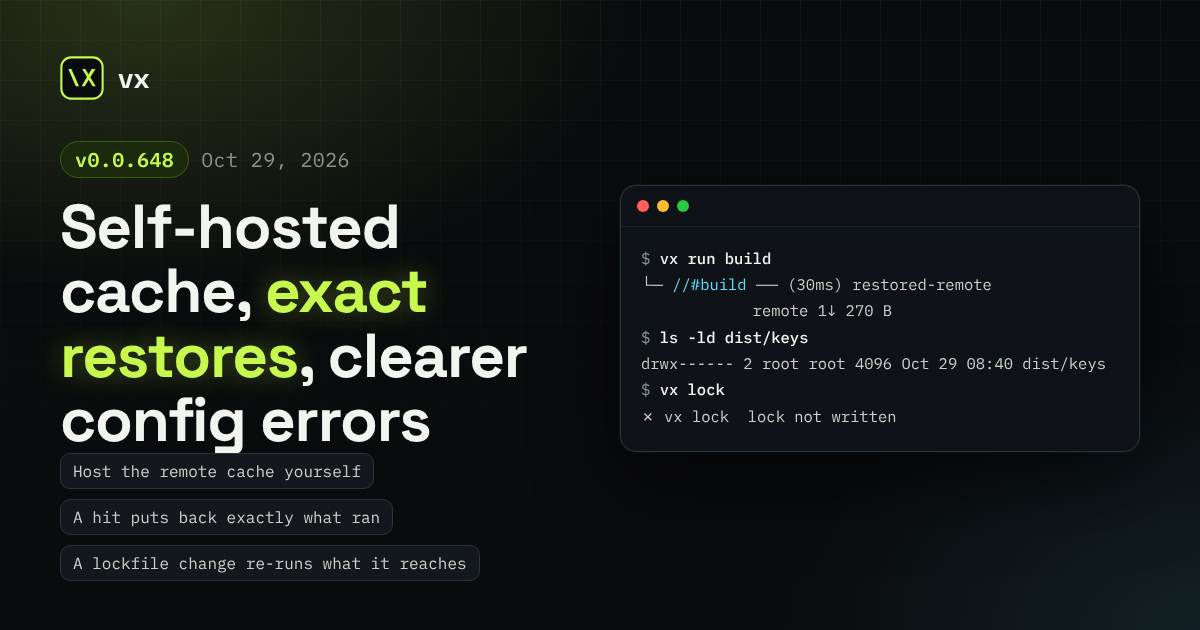
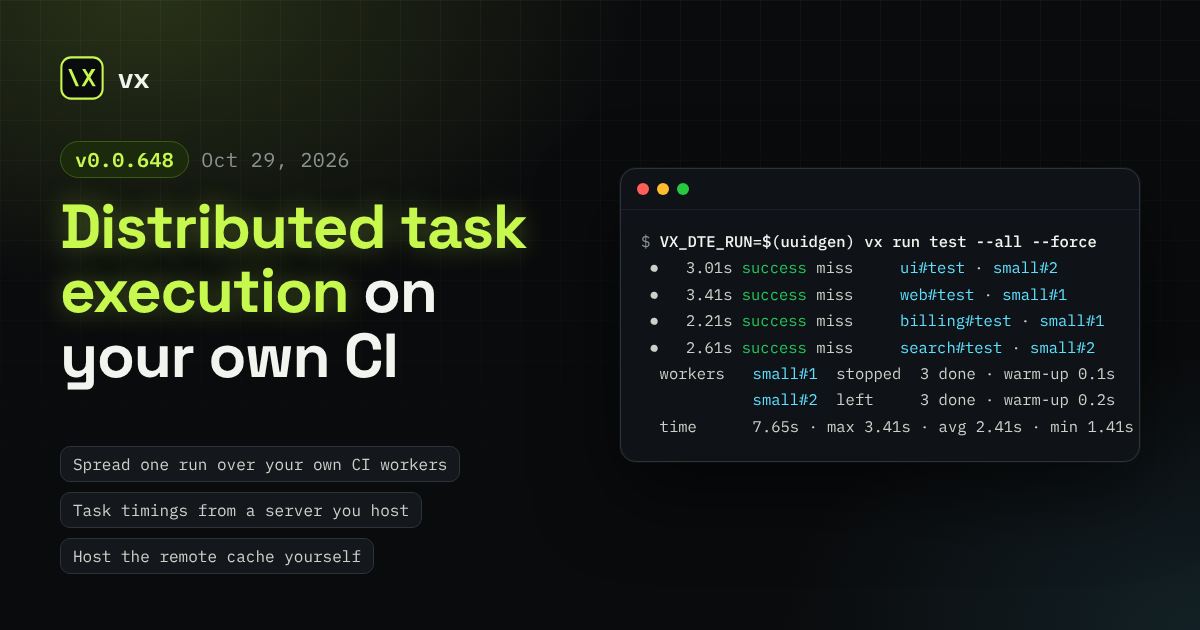
docs(vx-docs): lead the v0.0.648 post with distributed task execution
DTE is the release's headline, yet the post did not mention it or the
history server. It now opens with how a run spreads over your own CI
workers, with real local() and vx dte init output, then task timings
from a history server with real vx last --live and --sql output. The
cache, restore, lockfile and config sections are tightened, and the
history renames v0.0.646 users meet join the breaking list.

Claude-Session: https://claude.ai/code/session_01W6xuYaCkX1jpT9FftMDo4z

diff --git a/private/vx-docs/src/content/docs/releases/vx-0-0-648.md b/private/vx-docs/src/content/docs/releases/vx-0-0-648.md
@@ -1,5 +1,5 @@
 ---
-title: 'Self-hosted cache, exact restores, clearer config errors'
+title: 'Distributed task execution, a cache you host, exact restores'
 date: 2026-10-29T12:00:00Z
 authors:
   - vzn
@@ -7,18 +7,23 @@ tags:
   - release
 cover:
   image: ../../../assets/blog/vx-0-0-648.png
-  alt: 'vx 0.0.648: Self-hosted cache, exact restores, clearer config errors'
-excerpt: 'Host the remote cache in one bucket of your own, get back exactly what a task wrote, re-run what a lockfile change reaches, and see a config mistake refused with its fix.'
+  alt: 'vx 0.0.648: Distributed task execution, a cache you host, exact restores'
+excerpt: 'Spread one CI run over workers your own CI starts, through a relay that stores nothing. Plus task timings and a remote cache on servers you host, and exact restores.'
 ---
 
-Host the remote cache yourself, in one bucket with no database. A hit
-puts back exactly what the task wrote, a lockfile change re-runs what
-it reaches, and a config mistake is refused with its fix.
+Distributed task execution (DTE) spreads one `vx run` over workers your
+own CI starts. Below, six tests ran on two workers, and the footer
+shows how close the run came to ideal.
+
+There is no vendor cloud. The relay between the run and its workers is
+a server you host, and it stores nothing.
 
 This release is breaking. Read the [breaking changes](#breaking-changes) first.
 
 **In this release**
 
+- [Spread one run over your own CI workers](#spread-one-run-over-your-own-ci-workers)
+- [Task timings from a server you host](#task-timings-from-a-server-you-host)
 - [Host the remote cache yourself](#host-the-remote-cache-yourself)
 - [A hit puts back exactly what ran](#a-hit-puts-back-exactly-what-ran)
 - [A lockfile change re-runs what it reaches](#a-lockfile-change-re-runs-what-it-reaches)
@@ -26,6 +31,184 @@ This release is breaking. Read the [breaking changes](#breaking-changes) first.
 - [Other noteworthy changes](#other-noteworthy-changes)
 - [How to update](#how-to-update)
 - [Breaking changes](#breaking-changes)
+
+## Spread one run over your own CI workers
+
+```mermaid
+flowchart LR
+  O["your CI job: vx run"] -- "start, cancel" --> API[CI API]
+  API --> W1["worker small#1"]
+  API --> W2["worker small#2"]
+  O <-- "orders, status" --> R(("relay: stores nothing"))
+  R <--> W1
+  R <--> W2
+  W1 -- "outputs by key" --> C[(remote cache)]
+  W2 --> C
+  C -- "restore" --> O
+```
+
+Your CI job's `vx run` is the orchestrator. It finds the tasks the cache
+cannot answer, starts workers through your CI's API, and hands them out.
+
+Workers save outputs to your remote cache, and the run restores them as
+if the tasks ran there. Each side signs in with its CI job's OIDC
+token, so no secret is stored.
+
+```ts
+// .vx/workspace.ts
+import { defineWorkspace } from '@vzn/vx/config'
+import { dte, github } from '@vzn/vx-dte'
+
+export default defineWorkspace({
+  plugins: [
+    dte({
+      relay: 'https://relay.example.com',
+      workers: { small: { max: 8, cpu: 4, memory: '16GB' } },
+      adapter: github(),
+    }),
+  ],
+})
+```
+
+`workers` names the sizes the run may start: here up to 8 workers with
+4 cores and 16 GB each. `gitlab()` starts workers as GitLab pipelines.
+
+```sh frame="terminal"
+$ vx dte init
+vx dte init: wrote .github/workflows/ci.yml
+vx dte init: wrote .github/workflows/vx-worker.yml
+
+Next:
+  1. Let these workflows use the relay at https://relay.example.com: set its ALLOW.
+     Its ALLOW (a plain var, no secret): https://token.actions.githubusercontent.com:acme/app:ci.yml https://token.actions.githubusercontent.com:acme/app:vx-worker.yml
+  2. A remote cache the run and the workers share: workers hand back outputs only through it. https://vznjs.github.io/vx/docs/remote-cache/
+  3. Commit .github/workflows/ci.yml, .github/workflows/vx-worker.yml, .vx/workspace.ts and the lock (vx lock), and push.
+  How a run spreads over workers: https://vznjs.github.io/vx/docs/distributed-task-execution/
+```
+
+`vx dte init` writes the run's workflow and the workers' from `dte()`.
+Then it prints what is left to do.
+
+### Watch a run on your machine
+
+`local()` starts each worker as a process in its own git worktree, so
+you can watch a run with no CI:
+
+```ts
+dte({ workers: { small: { max: 3, cpu: 1, memory: '2GB' } }, adapter: local() })
+```
+
+```sh frame="terminal"
+$ VX_DTE_RUN=$(uuidgen) vx run test --all --force
+ ⏺   3.01s success miss     ui#test · small#2
+ ⏺   3.41s success miss     web#test · small#1
+ ⏺   2.21s success miss     billing#test · small#1
+ ⏺   2.61s success miss     search#test · small#2
+ ⏺   1.41s success miss     api#test · small#2
+ ⏺   1.81s success miss     auth#test · small#1
+
+  workers   small#1  stopped  3 done · warm-up 0.1s
+                     declared 1c/2G · actual 4c/14G
+                     online 7.5s · busy 7.5s · idle 0.0s
+                     cpu peak 2.0 · used avg 1.0 cores · machine avg 2.0 · booked avg 1.0 · cpu utilization 98%
+                     sent 3 messages · 4 KB, received 3 messages · 617 B
+            small#2  left     3 done · warm-up 0.2s
+                     declared 1c/2G · actual 4c/14G
+                     online 7.1s · busy 7.1s · idle 0.0s
+                     cpu peak 2.0 · used avg 1.0 cores · machine avg 2.0 · booked avg 1.0 · cpu utilization 99%
+                     sent 3 messages · 4 KB, received 3 messages · 621 B
+            probe    at 0.0s: 6 tasks left to run, 0 known misses
+            asked    2 at 0.0s for 6 tasks (6 measured), plan 27.4s
+            ideal    5.0s: each task as long as it took, placed perfectly
+            total    cpu utilization 98%
+
+  time      7.65s · max 3.41s · avg 2.41s · min 1.41s
+```
+
+Each row names the worker that ran it. The `workers` rows show live
+while the run goes, and the footer adds each worker's time and CPU use.
+
+`asked` is the end the run planned when it asked for workers, counting
+20 s to start each one when none has started before. `ideal` is the
+end had every task been placed perfectly.
+
+### A relay restart does not lose the run
+
+- The relay stores nothing. When it restarts, the run and each worker
+  join again within 4 s, and tasks keep running meanwhile.
+- A task naming `exec.platforms` runs only on a worker of that
+  platform. A Mac worker starts only when the run has a Mac task.
+- A worker the plan no longer needs is cancelled, so it does not hold
+  a runner. At its end the run cancels every worker run it started.
+
+`packages/vx-dte/scripts/sim.ts` replays a run fixture on the planner's
+own code, so you can try worker counts and strategies from the shell:
+
+```sh frame="terminal"
+$ bun packages/vx-dte/scripts/sim.ts packages/vx-dte/tests/fixtures/main-run-a09b987.json --max 4
+packages/vx-dte/tests/fixtures/main-run-a09b987.json: 65 tasks ran, strategy critical-path / best-fit / measured / plan
+end       213.6s  (best any worker count: 213.6s)
+cpu       88% of joined workers' cores
+churn     0   over-sent 0
+  small#1    joined 20.0s, left 211.1s     20 done · busy 191.1s · idle 0.0s
+  small#2    joined 20.0s, left 213.6s     17 done · busy 193.6s · idle 0.0s
+  small#3    joined 20.0s, left 207.7s     13 done · busy 187.7s · idle 0.1s
+  small#4    joined 20.0s, left 212.5s     15 done · busy 192.4s · idle 0.1s
+```
+
+See [Distributed task execution](../../docs/distributed-task-execution/).
+
+## Task timings from a server you host
+
+```ts
+// .vx/workspace.ts
+import { defineWorkspace } from '@vzn/vx/config'
+import { vxHistory } from '@vzn/vx-history'
+
+export default defineWorkspace({
+  plugins: [
+    vxHistory({
+      url: 'https://history.example.com',
+      issuer: 'https://token.actions.githubusercontent.com',
+      repository: 'acme/app',
+    }),
+  ],
+})
+```
+
+`@vzn/vx-history-server` keeps one row per task: its duration, cores
+and peak memory. It runs on Bun with SQLite, Cloudflare Workers with
+D1, or Docker.
+
+A fresh CI runner reads the timings of its branch, then its base, then
+the default branch. The longest work starts first, and DTE plans its
+workers by them.
+
+A timing belongs to the task's command and `env.define`. Change the
+command and its old timings go; edit its inputs and they stay.
+
+```sh frame="terminal"
+$ vx last --live
+run 01a18750-df8a-74a5-9878-0f0df6bdf9e5 — running 2.52s
+  $ vx run test --all --force
+  3 running · 3 ended · 0 waiting
+
+  running  search#test   2.51s
+  running  ui#test       1.09s
+  running  web#test      689ms
+  success  api#test      1.41s
+  success  auth#test     1.81s
+  success  billing#test  2.21s
+
+$ vx last --sql "SELECT project, COUNT(*) AS runs, MAX(duration_ms) AS slowest_ms FROM runs GROUP BY project ORDER BY slowest_ms DESC LIMIT 3"
+project  runs  slowest_ms
+web      2     3411
+ui       2     3009
+search   2     2609
+```
+
+`vx last --live` shows a run in progress from another shell.
+`vx last --sql` runs one read-only `SELECT` over the run history.
 
 ## Host the remote cache yourself
 
@@ -36,9 +219,8 @@ flowchart LR
   P[pull request] -- "writes only its own ref" --> S
 ```
 
-Your CI runners and laptops share one cache, kept in a bucket you own.
-`@vzn/vx-cache-server` runs on Cloudflare Workers, Bun or Docker. Each
-CI job signs in with its own token, so no secret is stored.
+`@vzn/vx-cache-server` keeps the cache in one bucket you own, with no
+database. It runs on Cloudflare Workers, Bun or Docker.
 
 ```ts
 // .vx/workspace.ts
@@ -72,9 +254,7 @@ $ vx run build
             remote 1↓ 270 B
 ```
 
-A 5xx or 429 from GitHub's token endpoint is tried again.
-`@vzn/vx-history-server` keeps task timings the same way. See
-[Remote cache](../../docs/remote-cache/).
+See [Remote cache](../../docs/remote-cache/).
 
 ## A hit puts back exactly what ran
 
@@ -107,8 +287,7 @@ would run:
 `app` never names `lib`, but the root `package.json` installs it for
 every package, so an edit to `lib` selects `app` too.
 
-A pnpm catalog bump re-runs only the projects that use it. See
-[Lockfiles](../../docs/lockfiles/).
+See [Lockfiles](../../docs/lockfiles/).
 
 ## A config mistake is refused with its fix
 
@@ -121,15 +300,12 @@ $ vx lock
 ```
 
 `src/**.ts` reads one level, so a deeper edit would replay a stale hit.
-`baseBranch: 'origin/main'` and a `5M` duration are refused too.
 
 ## Other noteworthy changes
 
-- `vx last --live` shows a run in progress from another shell;
-  `vx last --sql` queries run history.
 - `--affected` works on CI's one-commit checkout.
 - A merge queue's run reads and writes the branch it merges into.
-- `exec.platforms` names the machines a task runs on.
+- A 5xx or 429 from GitHub's token endpoint is tried again.
 
 ## How to update
 
@@ -142,10 +318,13 @@ vx upgrade
 - Every cached task misses once (`vx-cache-v51`, schema `v49`).
 - CLI and config: `--dry-run` → `--dry`, `--dry=text` → `--dry=pretty`;
   `baseBranch: 'origin/main'` and a `5M` duration are refused.
-- Plugins: `@vzn/vx-schedule-history` → `@vzn/vx-history`;
-  `turboCache()` and `nxCache()` take `url` and `token`; `reapi()` reads
-  no `VX_REAPI_*` variable; `github({ checks })` and `otel({ post })` →
-  removed.
+- History: `@vzn/vx-schedule-history` → `@vzn/vx-history`,
+  `scheduleHistoryPlugin()` → `vxHistory()`, `defaultBranch` →
+  `baseBranch`; timings shared through the remote cache need a history
+  server (`vxHistory({ url })`).
+- Plugins: `turboCache()` and `nxCache()` take `url` and `token`;
+  `reapi()` reads no `VX_REAPI_*` variable; `github({ checks })` and
+  `otel({ post })` → removed.
 - Plugin API: `RunResult.signal` may be a number;
   `FingerprintClaim.extraFiles` takes a `ctx`.
 
